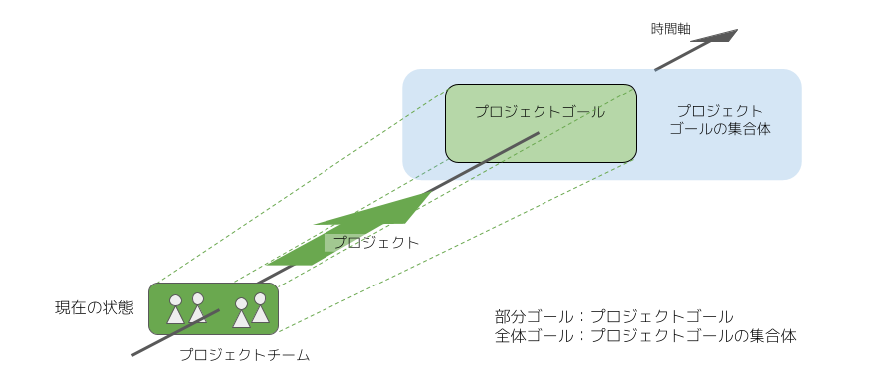
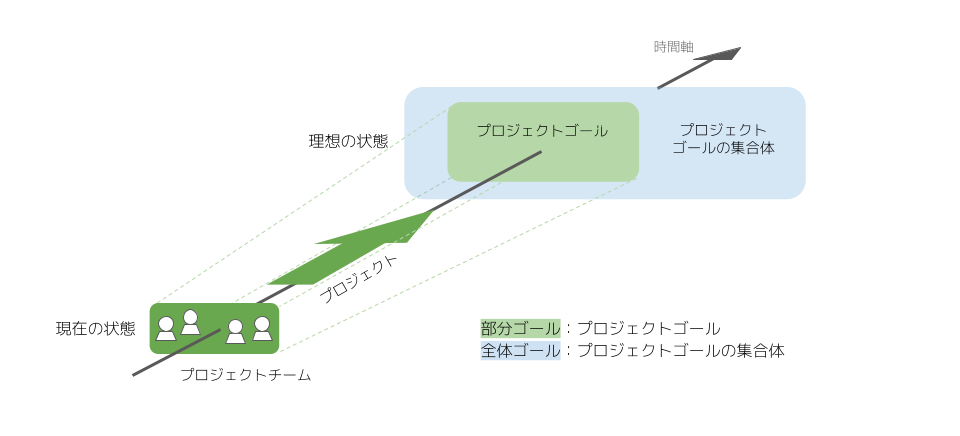
直近の修正反映

Changed region(s): [[0.0621, 0.0579, 0.931, 0.9553], [0.4966, 0.7237, 0.931, 0.8974]]

diff --git a/ja-v3.0.0-alpha/tutorial/section1-1.md b/ja-v3.0.0-alpha/tutorial/section1-1.md
@@ -10,17 +10,18 @@ image: https://projectsprint.org/images/pjs_og.png
 
 ここでは、プロジェクトスプリントの概要を説明し、「準備しよう」「やってみよう」「改善しよう」における個別のドキュメントの内容を理解しやすくします。
 
-### プロジェクトスプリントにおける「プロジェクト」
+### プロジェクトとプロジェクトゴール
 
 ![プロジェクトゴール](../images/projectgoal.png)
 
 プロジェクトスプリントでは、解決したい大きな課題に取り組む過程のうち、現状のプロジェクトチームで推進・達成に現実味が持てる一部分を切り出したものを、**プロジェクト**と定義します。つまり、プロジェクトは「全体」に対する「部分」であり、プロジェクトゴールは「全体ゴール」の達成に近づくために必要な一歩としての「部分ゴール」ということになります。全体ゴールは、プロジェクトゴールの集合体です。
 
-プロジェクトに不可欠な要素は、**プロジェクトチーム**とそのプロジェクトチームによって設定された**プロジェクトゴール**の二つです。プロジェクトチームとは、プロジェクトゴールに対する共通認識をもち、その達成に向けて相互に協力し合うメンバーの集まりです。プロジェクトゴールとは、プロジェクトチームによって定められた一定の状態や作成物です。通常複数の中間的な状態・作成物を経て、最終的な状態・作成物としてのプロジェクトゴールが達成されます。
+プロジェクトに不可欠な要素は、**プロジェクトチーム**とそのプロジェクトチームによって設定された**プロジェクトゴール**の二つです。プロジェクトチームとは、後述するように、プロジェクトゴールに対する共通認識をもち、その達成に向けて相互に協力し合うメンバーの集まりです。プロジェクトゴールとは、プロジェクトチームによって定められた一定の状態や作成物です。通常複数の中間的な状態・作成物を経て、最終的な状態・作成物としてのプロジェクトゴールが達成されます。
 
-### プロジェクトスプリントにおける「プロジェクトチーム」
+プロジェクトゴールは、**プログレスゴール**と**チーミングゴール**から成ります。プログレスゴールとはプロジェクトの成果として目指すべき状態が達成されたり作成物が出力されたりすることであり、チーミングゴールとは理想的なプロジェクトチームが形成されることです。  
+どちらに比重が置かれるかはプロジェクトによって異なりますが、プロジェクトが成功しより大きな価値を生み出すためには、プロジェクトの進め方や進み具合だけでなくプロジェクトチームのあり方についても考える必要があるため、双方のゴールが常に意識されることになります。
 
-プロジェクトスプリントの中心はプロジェクトチームであり、プロジェクトを定義するのもプロジェクトチームです。そのため、プロジェクトが成功し、より大きな価値を生み出すためには、プロジェクトの進め方だけでなくプロジェクトチームのあり方についても考える必要があります。
+### プロジェクトチーム
 
 プロジェクトスプリントでは、以下がプロジェクトチームの定義であり必要な構成要素であると考えています。
 
@@ -28,60 +29,39 @@ image: https://projectsprint.org/images/pjs_og.png
 2. メンバー間で相互に協力し合うこと
 3. プロジェクトやプロジェクトゴールそのものを再定義できること（もしくは、再定義するための仕組みがあること）
 
-中でも、「プロジェクトやプロジェクトゴールそのものを再定義できること」がプロジェクトチームをプロジェクトチームたらしめる上で重要な要素です。\
-はじめから固定的なゴールに対する完璧な答えを生み出そうとするよりも、いくつかに切り分けて軌道修正を繰り返しながら少しずつ歩みを進め、必要に応じてゴールを再定義することで、ゴールに至る道のりがより適切なものになります。この「漸進的にものごとを進める」という考え方が、プロジェクトスプリントでは非常に重要です。
+プロジェクトチームは、プロジェクトゴールを達成するために小さな実験を繰り返し行います。はじめから固定的なゴールに対する完璧な答えを生み出そうとするよりも、プロジェクトを一定の期間で区切って定例ミーティングを置き、進捗や全体像を見直して軌道修正を繰り返しながら少しずつ歩みを進め、必要に応じてゴールを再定義することで、ゴールに至る道のりがより適切なものになります。この「漸進的にものごとを進める」という考え方が、プロジェクトスプリントでは非常に重要です。
 
-### プロジェクトスプリントにおける2つの活動
-
-プロジェクトスプリントでは、プロジェクトは2つの活動から成ると考えています。
-
-![プロジェクトスプリントの構造](../images/basic.png)
-
-#### 個人の活動
-
-プロジェクトゴール達成のために行われる、各メンバー個人で完結する活動を指します。プロジェクトゴールの達成に向けた工程を、小さな作業（**タスク**）に分解して分担し効率よく遂行し続けることで、目に見える作成物が生み出されて、プロジェクトゴールに漸進的に近づいていきます。また、タスクを遂行する中で、他のメンバーに伝えたいアイデアや問題、違和感（**テンション**）が生まれます。
-
-#### チームとしての活動
-
-チームとしてよりよい形でプロジェクトゴールに向かっていくための、個人では完結しないチームとしての活動を指します。個々人の活動の前提を与えたり考えたりするのがチームです。個々人がタスクに取り組む中で生まれた作成物やアイデア・問題・テンションを**ミーティング**で共有し認識を揃えることによって、プロジェクトチームとしてのアイデアを共同創造し、問題の共同解決を行って次の行動を決定することが重要です。具体的には、プロジェクトゴールの設定や変更とそこに至るまでの共通認識や納得感の形成を行うことや、各メンバーの責任・役割・期待値を共有した上でタスクの分担や進め方を決めることが挙げられます。
+プロジェクトチームの機能としては、プロジェクトゴールの設定や変更とそこに至るまでの共通認識や納得感の形成を行うことや、メンバー間で各々の期待値を共有・納得した上で役割分担や作業の進め方を調整することが挙げられます。チームとしてよりよい形でプロジェクトゴールに向かっていくために、個々人の活動の前提を与えたり考えたりするのがプロジェクトチームであるといえます。
 
 ### プロジェクトスプリントの基本メカニズム
 
-プロジェクトスプリントの基本のメカニズムは、「個人の活動の結果を、チームとして定期的・反復的に持ち寄って擦り合わせ、プロジェクトを漸進的に理想の状態に近づけていくことによって、プロジェクトゴールを達成する」というものです。プロジェクトチームは、現在いる地点から理想とするプロジェクトゴールに向かって反復的かつ漸進的に進んでいきます。つまり、プロジェクトを一定の期間で区切って定例ミーティングを置き、進捗や全体像、取るべき道筋を見直しながら、段階的にプロジェクトゴールに近づいていくのです。
+プロジェクトスプリントの基本のメカニズムは、「個人単位で作成物の出力に取り組んだ成果を、プロジェクトチームとして定期的・反復的に持ち寄って擦り合わせ、プロジェクトを現在の状態から理想の状態に漸進的に近づけていくことによって、プロジェクトゴールを達成する」というものです。
 
-#### 推進プロセス
+メンバー間で共有されたプロジェクトゴールに向かって、役割分担しながら目に見える作成物を小さく生み出しつづけることで、プログレスゴールの達成に漸進的に近づいていきます。また、作成物の出力に取り組む中で生まれた、他のメンバーに伝えたいアイデアや問題、違和感（**テンション**）を**ミーティング**で共有しプロジェクトチーム全体の認識を揃えることによって、アイデアを共同創造したり問題の共同解決を行ったりすることが可能になります。こうしてチーミングゴールへの達成へも近づくことができます。
 
-このメカニズムを効果的に実行できるよう、個人の活動とチームとしての活動の成果をやり取りし、双方の実行と最適化を促進するための仕組みを、「推進プロセス」と呼びます。\
-推進プロセスは、ミーティングとそこでのアジェンダの議論を軸としています。最も重要なのは全メンバーが同期する定期的・反復的な定例ミーティングですが、それだけでなく、一部のメンバーで行われるミーティングや必要に応じてスポットで行われるミーティングも、推進プロセスの場として有効に機能します。\
-プロジェクトスプリントではミーティングを、「チームメンバーが一時的に同一の環境に固定されてリアルタイムで会話をすることにより、素早く効率的な認識合わせと、全員にとって納得感のある意思決定をする場」、またアジェンダを「個人の活動から生まれた問題点やテンションを、他のメンバーと共有し次の行動を決定するために明文化したもの」と位置付けています。これらを通じて、タスクの進捗状況を共有したり、プロジェクトゴールの見直しや互いの役割の調整をすることができます。
+推進プロセスは、ミーティングとそこでのアジェンダの議論を軸としています。最も重要なのは全メンバーが同期する定期的・反復的な定例ミーティングですが、それだけでなく、一部のメンバーで行われるミーティングや必要に応じてスポットで行われるミーティングも、推進プロセスの場として有効に機能します。
 
-タスクを遂行する中で発見された個々人のアイデア・問題・テンションは、ミーティングのアジェンダとしてインプットされ議論されます。その結果、次の個々人のタスクがアウトプットとして設定され、そのタスクが遂行されることでさらに次のミーティングでのアジェンダの材料となる個々人のアイデア・問題・テンションが生まれます。プロジェクトチームは、このサイクルを繰り返すことで継続的な改善を行いながら、プロジェクトゴールの達成に近づいていきます。\
-このプロセスの根幹にあるのはタスクの実行ですから、プロジェクトにおいて、タスクを実行し完了させることは非常に重要な意味を持ちます。タスクが円滑に遂行されていなければ、課題や違和感に気づく機会が失われ、改善がストップしてしまいます。タスクに継続して取り組み続けているからこそ、問題をすぐに発見して適切なアジェンダを提案でき、ミーティングでの課題解決の質やプロジェクト全体の改善のスピードを上げることができるのです。
+プロジェクトスプリントではミーティングを、「チームメンバーが一時的に同一の環境に固定されてリアルタイムで会話をすることにより、素早く効率的な認識合わせと、全員にとって納得感のある意思決定をする場」、またアジェンダを「個人から出力されたアイデア・問題・テンションを、他のメンバーと共有し次の行動を決定するために明文化したもの」と位置付けています。これらを通じて、作成物への取り組み状況の共有やプロジェクトゴールの見直し、互いの役割の調整をすることができます。
+
+作成物の出力に取り組む中で発見された個々人のアイデア・問題・テンションは、ミーティングのアジェンダとしてインプットされ議論されます。その結果、次に個々人が取り組むべきものごとや方向性が明確になり、次の取り組みからさらに次回のミーティングでのアジェンダの材料となる個々人のアイデア・問題・テンションが生まれます。プロジェクトチームは、このサイクルを繰り返すことで継続的な改善を行いながら、プロジェクトゴールの達成に近づいていきます。  
+この一連の流れにおいて、作成物の出力に取り組むことは非常に重要な意味を持ちます。作成物に継続的に取り組めていなければ、課題や違和感に気づく機会が失われ、改善がストップしてしまいます。作成物に取り組むからこそ、問題をすぐに発見して適切なアジェンダを提案でき、ミーティングでの課題解決の質やプロジェクト全体の改善のスピードを上げることができるのです。
 
 ### プロジェクトの「理想の状態」
 
 では、プロジェクトの「理想の状態」とはいったいどういうものなのでしょうか？
 
-まず、個人の活動については、以下が理想の状態と言えます。
+まず、個人のレベルにおいては、以下が理想の状態と言えます。
 
 * プロジェクトゴールに、個人として納得感と達成への現実味が持てている。
 * チームにおける自分の責任・役割・期待値に納得感が持てており、自分がチームのために何をすべきかを自律的に判断し実際に行動できている。
-* タスクが円滑に遂行され、その結果としてミーティングのアジェンダとすべき問題点やテンションが生まれている。
+* 作成物が継続的に出力され、その結果としてミーティングのアジェンダとすべき問題点やテンションが生まれている。
 * 複数の作成物に同時進行で取り組む場合、それぞれの作成物に対する活動が疎結合となっており、自律的に遂行できる。
 
-また、チームとしての活動については、以下が理想の状態です。
+また、プロジェクトチームとしては、以下が理想の状態です。
 
 * プロジェクトチームの納得を得たプロジェクトゴールが設定され、環境の変化に応じて都度見直されており、メンバー間でプロジェクトゴールに対する共通認識が持てている。
 * プロジェクトゴールがプロジェクト外の大きなゴールを目指しているメンバーに対しても明確に示されており、大きなゴールに対してのプロジェクトの役割や位置づけが明確になっている。
 * プロジェクトゴール達成に向けた各自の責任・役割・期待値が共有されており、各メンバー相互の認識に齟齬がない。
 * 役割やスキルを問わず個々人が相互に尊重され信頼されていると感じられ、誰もがテンションを上げやすい環境になっている。
 
-加えて、この2つの活動の間で推進プロセスがスムーズに機能していることが、プロジェクトの「理想の状態」と言えるでしょう。
-
-### プロジェクトゴールの設定と変更
-
-プロジェクトチームが目指すのはプロジェクトゴールを達成することですから、まずは将来達成したいプロジェクトゴールを定義しなくてはなりません。プロジェクトゴールを設定する際には、プロジェクトを取り巻く種々の前提や条件（**制約**）が織り込まれている必要があるのはもちろんですが、重要なのはプロジェクトチームの納得感を得たものであることです。メンバー間で合意され共通の認識があるプロジェクトゴールを設定することで、個々のメンバーがその達成に現実味と納得感を持ってプロジェクトに参画できるのです。
-
-ただし、プロジェクトゴールは確定された不変のものではなく、むしろ環境の変化に応じて柔軟に書き換えられたり進化したりしうるものなので、常に見直してよく、また見直す必要があると言えます。プロジェクトゴールは、市場環境の悪化や組織の体制変更、稟議スケジュールの変更といったプロジェクトの外部環境の変化によって調整が必要になることもあれば、プロジェクトを進める中で得られた洞察やチームメンバーの共通認識・役割期待の遷移といった内部的な変化によって進化することもあります。プロジェクトチームがプロジェクトゴールへの道のりを歩むにつれて見える景色が変化することによって、目指すあり方も進化しうるのです。
-
-プロジェクトスプリントは、プロジェクトチームがこうした変化を適時認識し、プロジェクトゴールを都度適切な形に設定しなおすためのメソッドを提供することで、プロジェクトチームがプロジェクトゴールに近づいていく手助けをします。
+加えて、先述した推進プロセスがスムーズに機能していることが、プロジェクトの理想の状態と言えるでしょう。

diff --git a/ja-v3.0.0-alpha/tutorial/section2-1.md b/ja-v3.0.0-alpha/tutorial/section2-1.md
@@ -59,7 +59,7 @@ image: https://projectsprint.org/images/pjs_og.png
 
 ### **設定における注意点**
 
-マイルストーンもプロジェクトゴール同様、チームメンバー全員で話し合いながら作っていくのが理想です。ただしこれも実際には、最初は全員で発散的に意見を出し合ったのち、誰かがその内容を取りまとめて明文する、という流れを辿ることが多いものです。もちろん、最終的には全員が納得している状態になっている必要があります。そのため、全員が理解しやすいように、極力シンプルなものになるよう心掛けてください。
+マイルストーンもプロジェクトゴール同様、チームメンバー全員で話し合いながら作っていくのが理想です。ただしこれも実際には、最初は全員で発散的に意見を出し合ったのち、誰かがその内容を取りまとめて明文化する、という流れを辿ることが多いものです。もちろん、最終的には全員が納得している状態になっている必要があります。そのため、全員が理解しやすいように、極力シンプルなものになるよう心掛けてください。
 
 マイルストーンの粒度や抽象度は、プロジェクトゴールとの距離感によってばらつきが出てもかまいません。通常、直近のマイルストーンは期日・作成物ともに具体的なものになり、プロジェクトゴールに近いものほど抽象的で大まかな記載になります。ただし、マイルストーンを見たチームメンバーがそれぞれ自分で意思決定をして行動できる程度には、具体性のあるものである必要があります。そのマイルストーンに直接関わっているメンバーが理解できることはもちろん、直接関わっていないメンバーが見たときにもそれに応じて自身で必要な行動を取れるようなものにしてください。また、プロジェクト外のステークホルダー（例えば、プロジェクトの結果を報告するべき人や、プロジェクトの結果を受けて業務に影響が出る人）が客観的に見たときに、何を作成物として作ろうとしているのかすんなり理解できるかどうかも、適切なマイルストーン設定のための一つの判断基準になるでしょう。
 
@@ -103,6 +103,8 @@ image: https://projectsprint.org/images/pjs_og.png
 ## **制約・イベント**
 
 プロジェクトの外部環境にあって、プロジェクトに影響を与えるためプロジェクトメンバーが意識しなければならないものを、「制約」と呼びます。特に、プロジェクトゴールやマイルストーンの設定の前提となるものを「イベント」と呼びます。なお、プロジェクトの内部にあってマイルストーンやゴールの変動をもたらすものは、プロジェクトの一部として捉え、イベントとは呼びません。
+
+制約は、社内の稟議スケジュールや予算など、所与のものであることが多いですが、プロジェクトを取り巻くさまざまな制約のうちどれを、実際にプロジェクトに影響を与える**イベント**として採用しプロジェクトゴール設定の前提とするかをプロジェクトチームで判断する必要があることもあります。この場合にも、プロジェクトチームとして納得感のある意志決定をすることが大切です。
 
 イベントの典型的な例は、プロジェクトの外で日々行われている、組織の定常業務です。具体的には取締役会などがこれにあたります。これ自体がプロジェクトの作成物を生み出すわけではありませんが、プロジェクトに関する何らかの報告や決済がなされるため、こうしたイベントに合わせてプロジェクトゴールやマイルストーンを設定する必要があることがあります。また、こうしたイベントからフィードバックされた情報がプロジェクトの前提条件を変え、マイルストーンや、ときにはプロジェクトゴールそのものを変える必要が生じることもあります。
 

diff --git a/ja-v3.0.0-alpha/essentials.md b/ja-v3.0.0-alpha/essentials.md
@@ -11,7 +11,6 @@ image: https://projectsprint.org/images/pjs_og.png
 プロジェクトのすべての要素は、プロジェクトチームによって規定されるものです。プロジェクトチームは、以下の原則に従って行動します。
 
 * プロジェクトチームは、プロジェクトチーム自身の意思を反映させたプロジェクトゴールを設定し、外部環境の変化やプロジェクト内で得られる洞察に応じてアップデートを繰り返しながら、納得感と達成への現実味を持って、漸進的にプロジェクトゴールの達成を目指します。
-* プロジェクトチームは、各メンバーがタスクを分担し継続的に遂行することで、他のメンバーに伝えたいアイデア・問題・違和感を発見しつづけます。
-* プロジェクトチームは、全員参加のミーティングで認識を揃え、全員が納得できるプロジェクトゴールやロールを設定し更新しつづけるとともに、アイデアの共同創造と問題の共同解決を行って、個人の次のタスクを生み出しつづけます。
-* プロジェクトチームは、推進プロセスを通して、個人の活動とチームとしての活動それぞれの成果を定期的・反復的にやり取りします。
+* プロジェクトチームは、各メンバーが作成物を継続的に出力することを通して、他のメンバーに伝えたいアイデア・問題・違和感を発見しながら、プロジェクトゴールに向かって定期的・反復的に前進します。
+* プロジェクトチームは、全員参加のミーティングで認識を揃え、全員が納得できるプロジェクトゴールやロールを設定し更新しつづけるとともに、アイデアの共同創造と問題の共同解決を行います。
 * プロジェクトチームは、各メンバーの責任・役割・期待値を共有します。各メンバーは、己の役割を果たすべく自律的に行動を起こし、信頼と敬意をもって相互に支援を行います。
